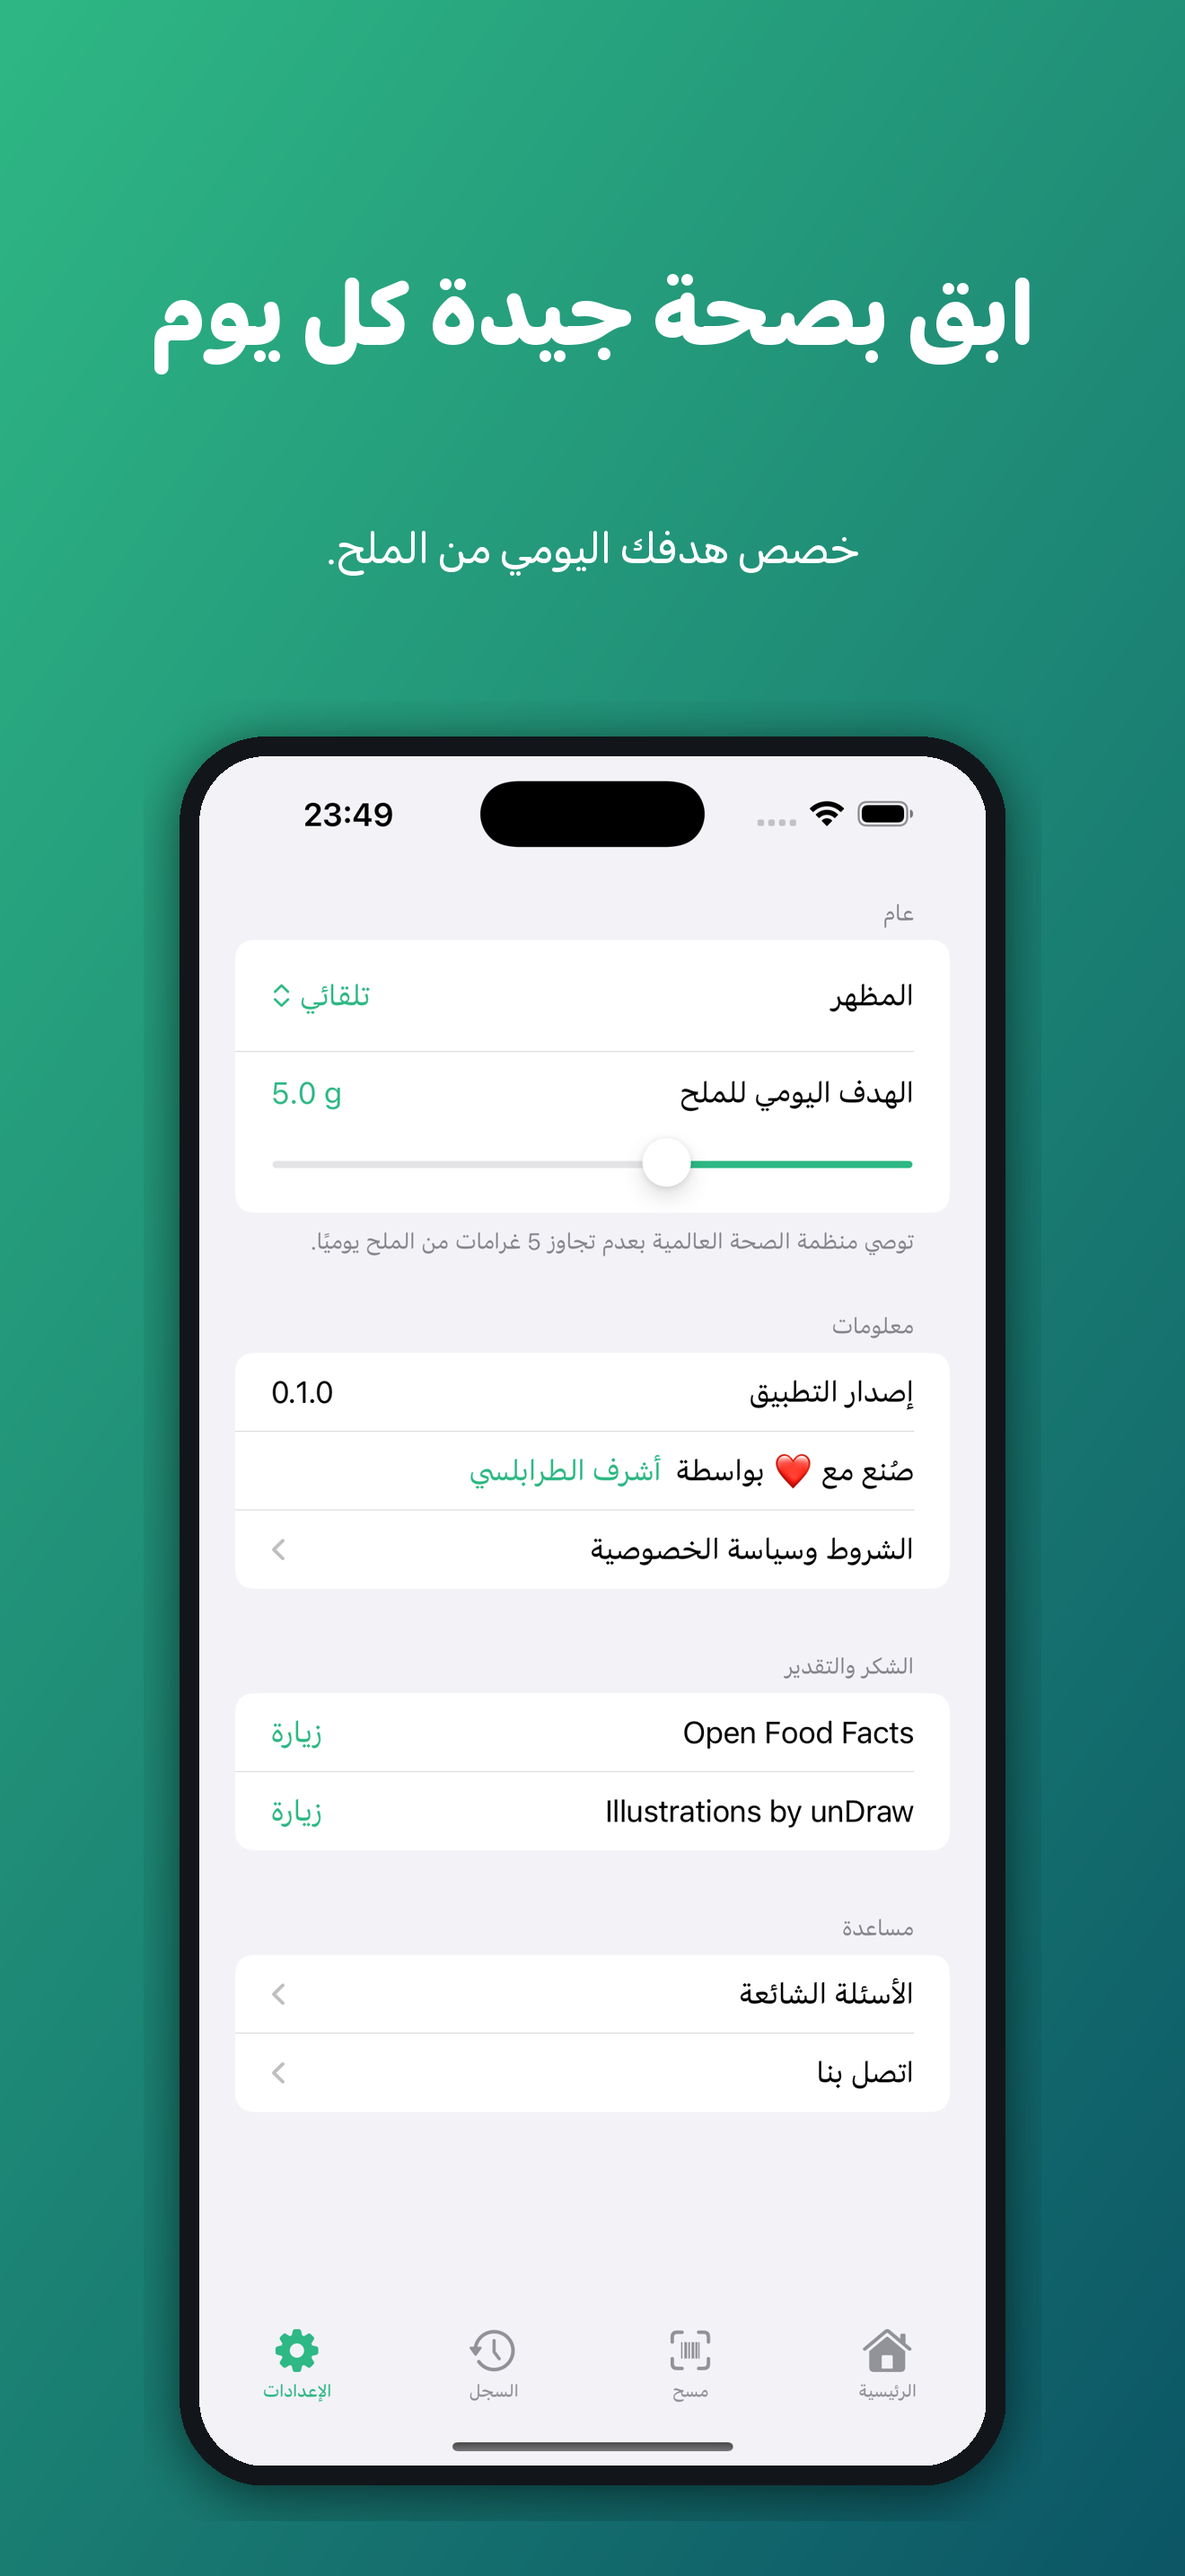
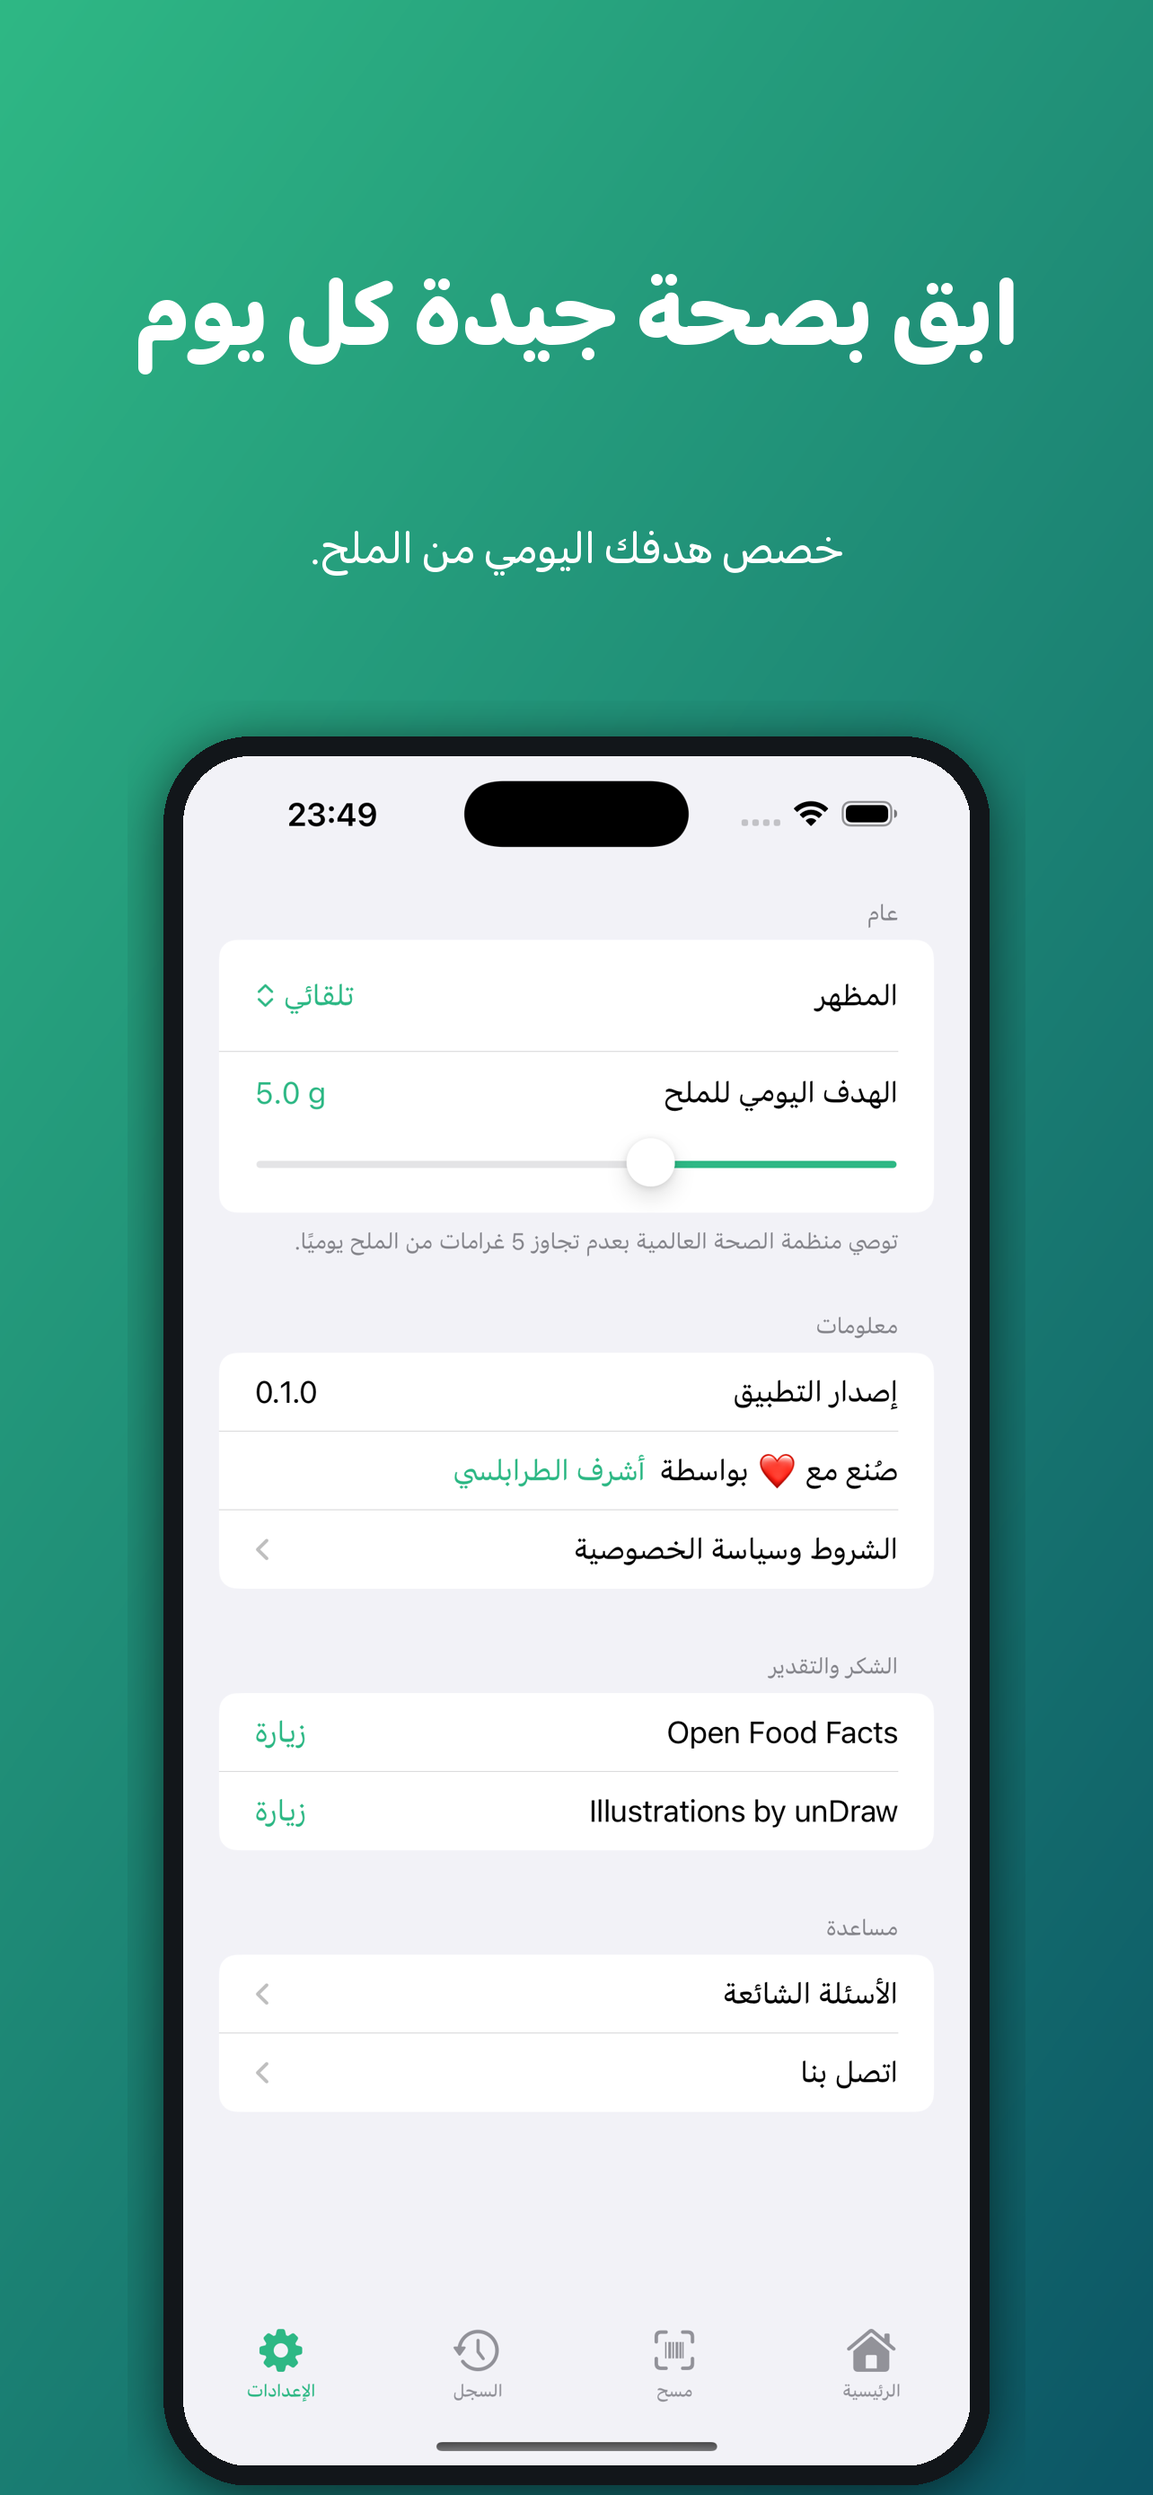
chore: resize App Store screenshots to 1284×2778 (iPhone 6.7")
App Store Connect rejects 1320×2868 (iPhone 6.9") on existing listings —
switch the marketing canvas to the 6.7" required size and re-composite
all 15 slides.

diff --git a/tools/composite_screenshots.py b/tools/composite_screenshots.py
@@ -23,7 +23,7 @@ from bidi.algorithm import get_display
 
 # ----- Constants ------------------------------------------------------------
 
-W, H = 1320, 2868
+W, H = 1284, 2778   # iPhone 6.7" portrait — App Store Connect required size
 REPO = Path(__file__).resolve().parent.parent
 RAW_DIR = REPO / "marketing/raw"
 OUT_DIR = REPO / "marketing/screenshots"
